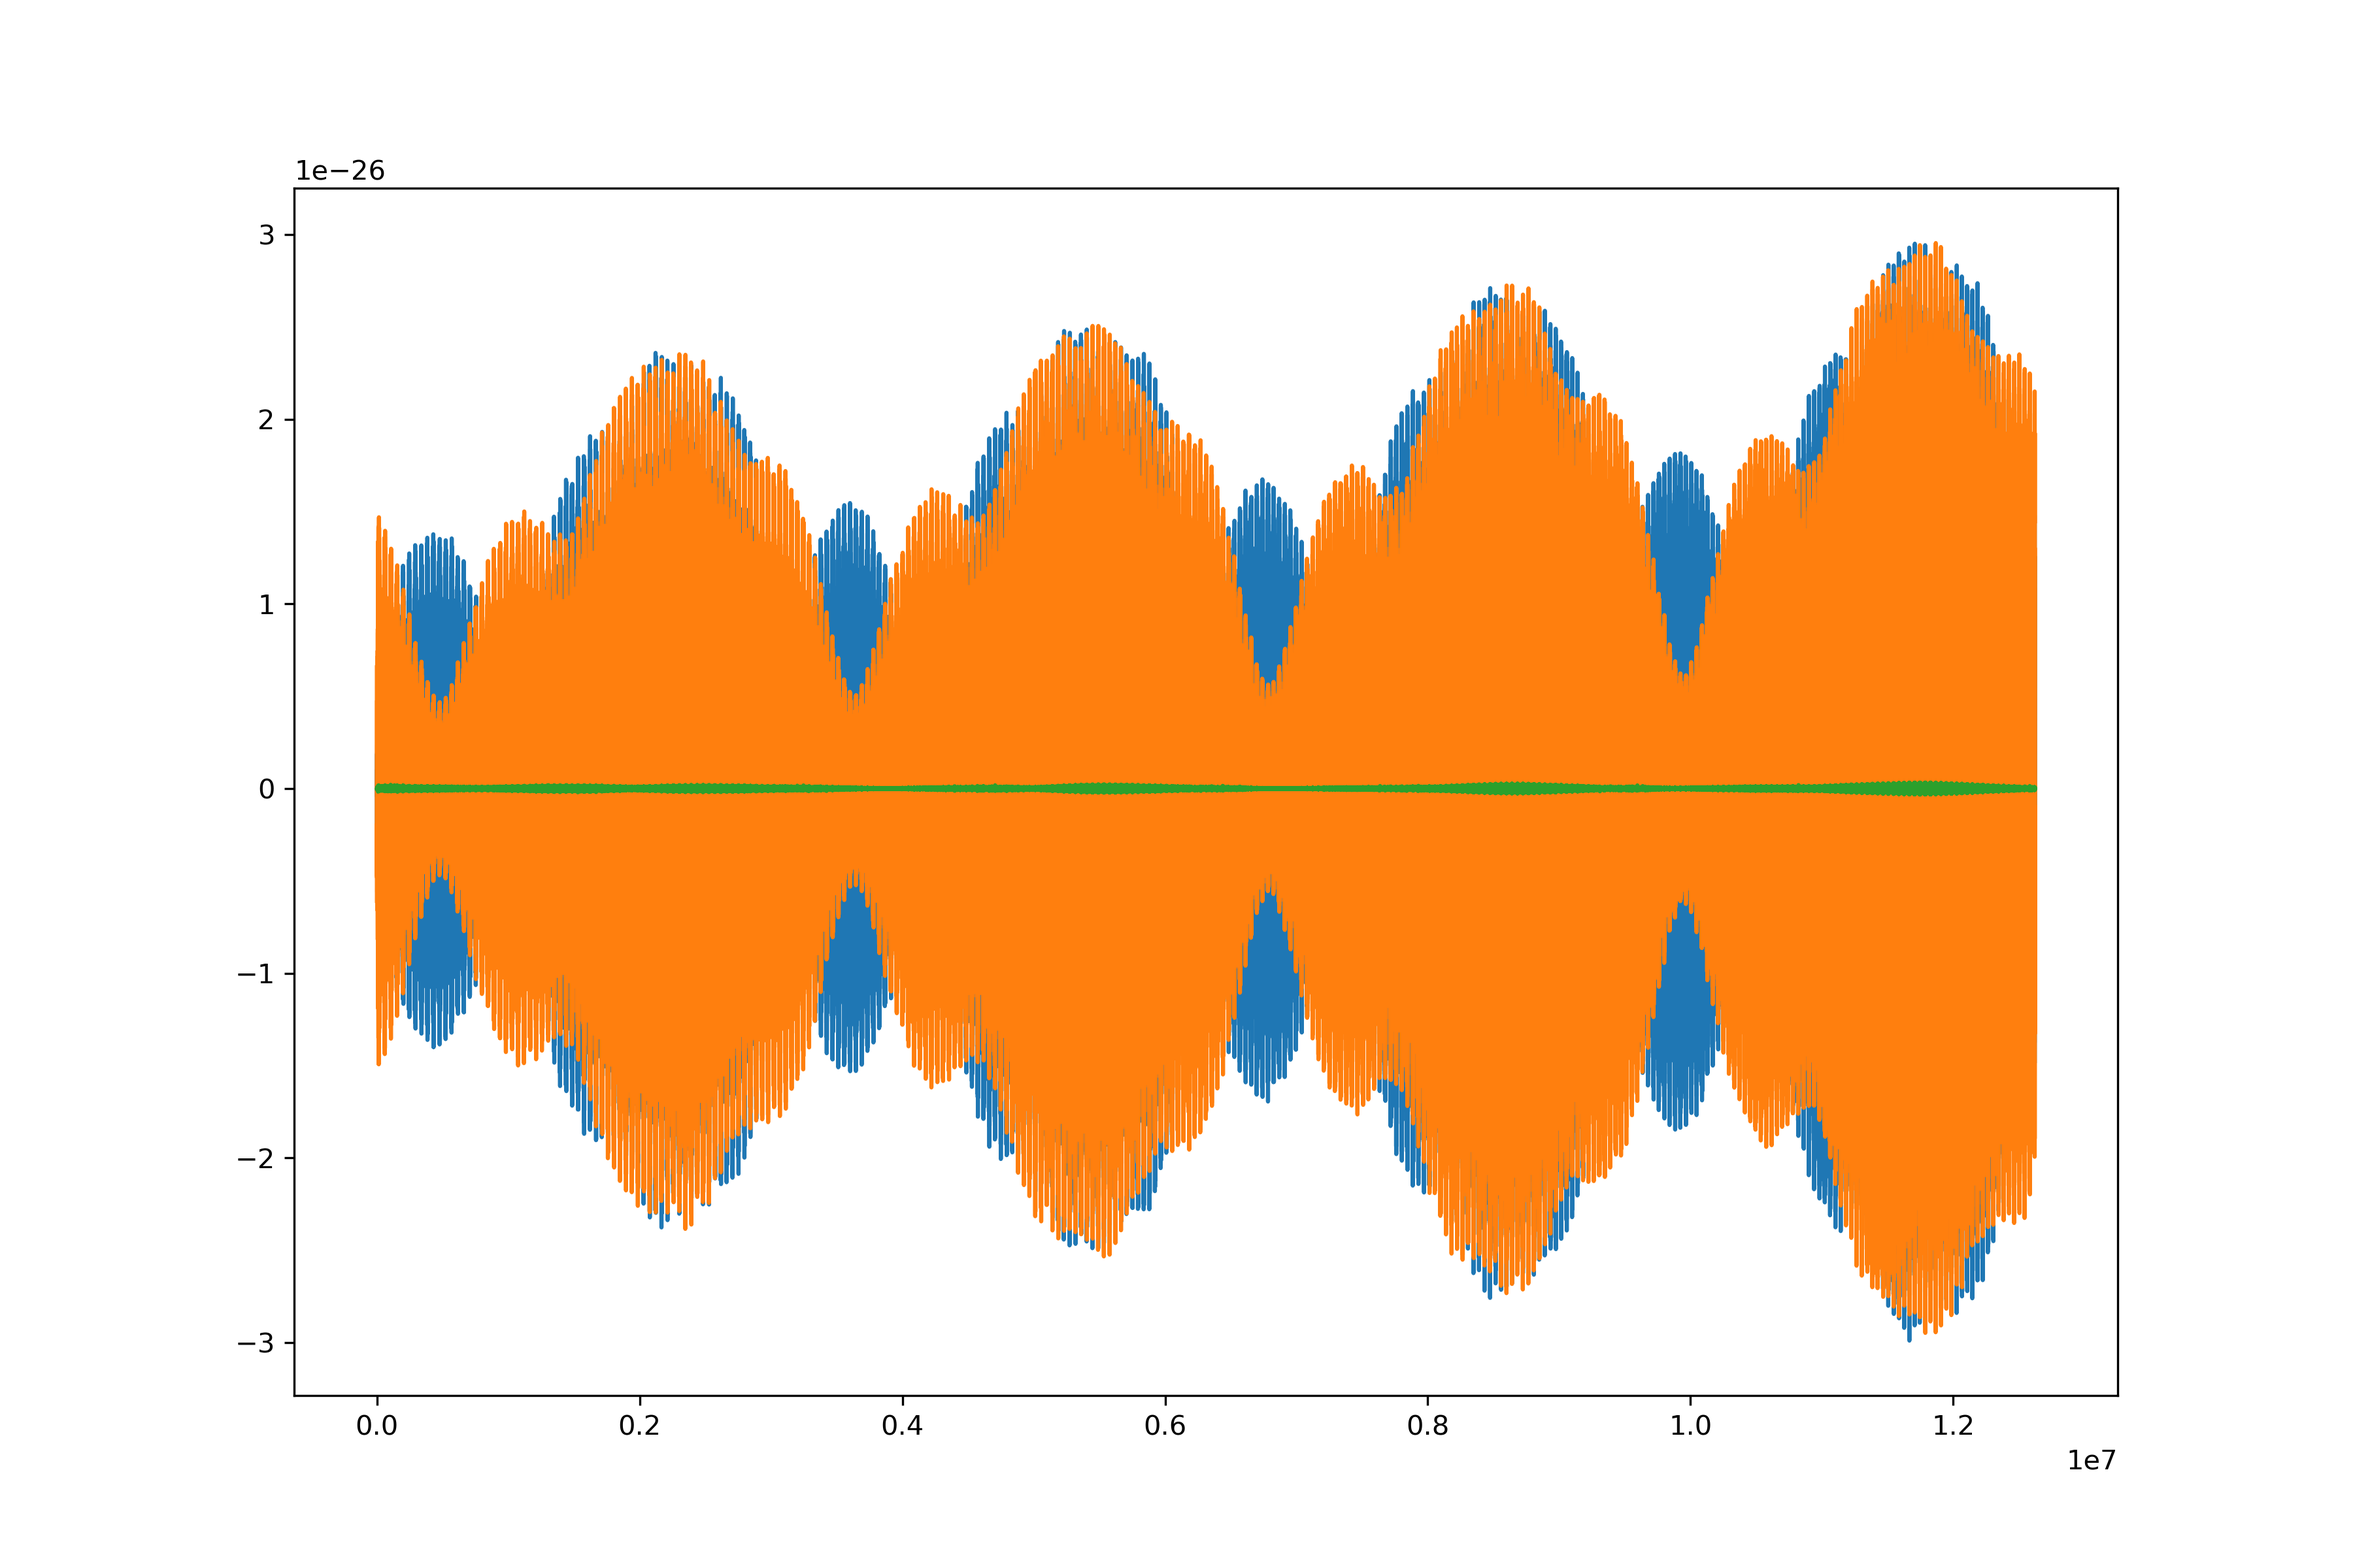
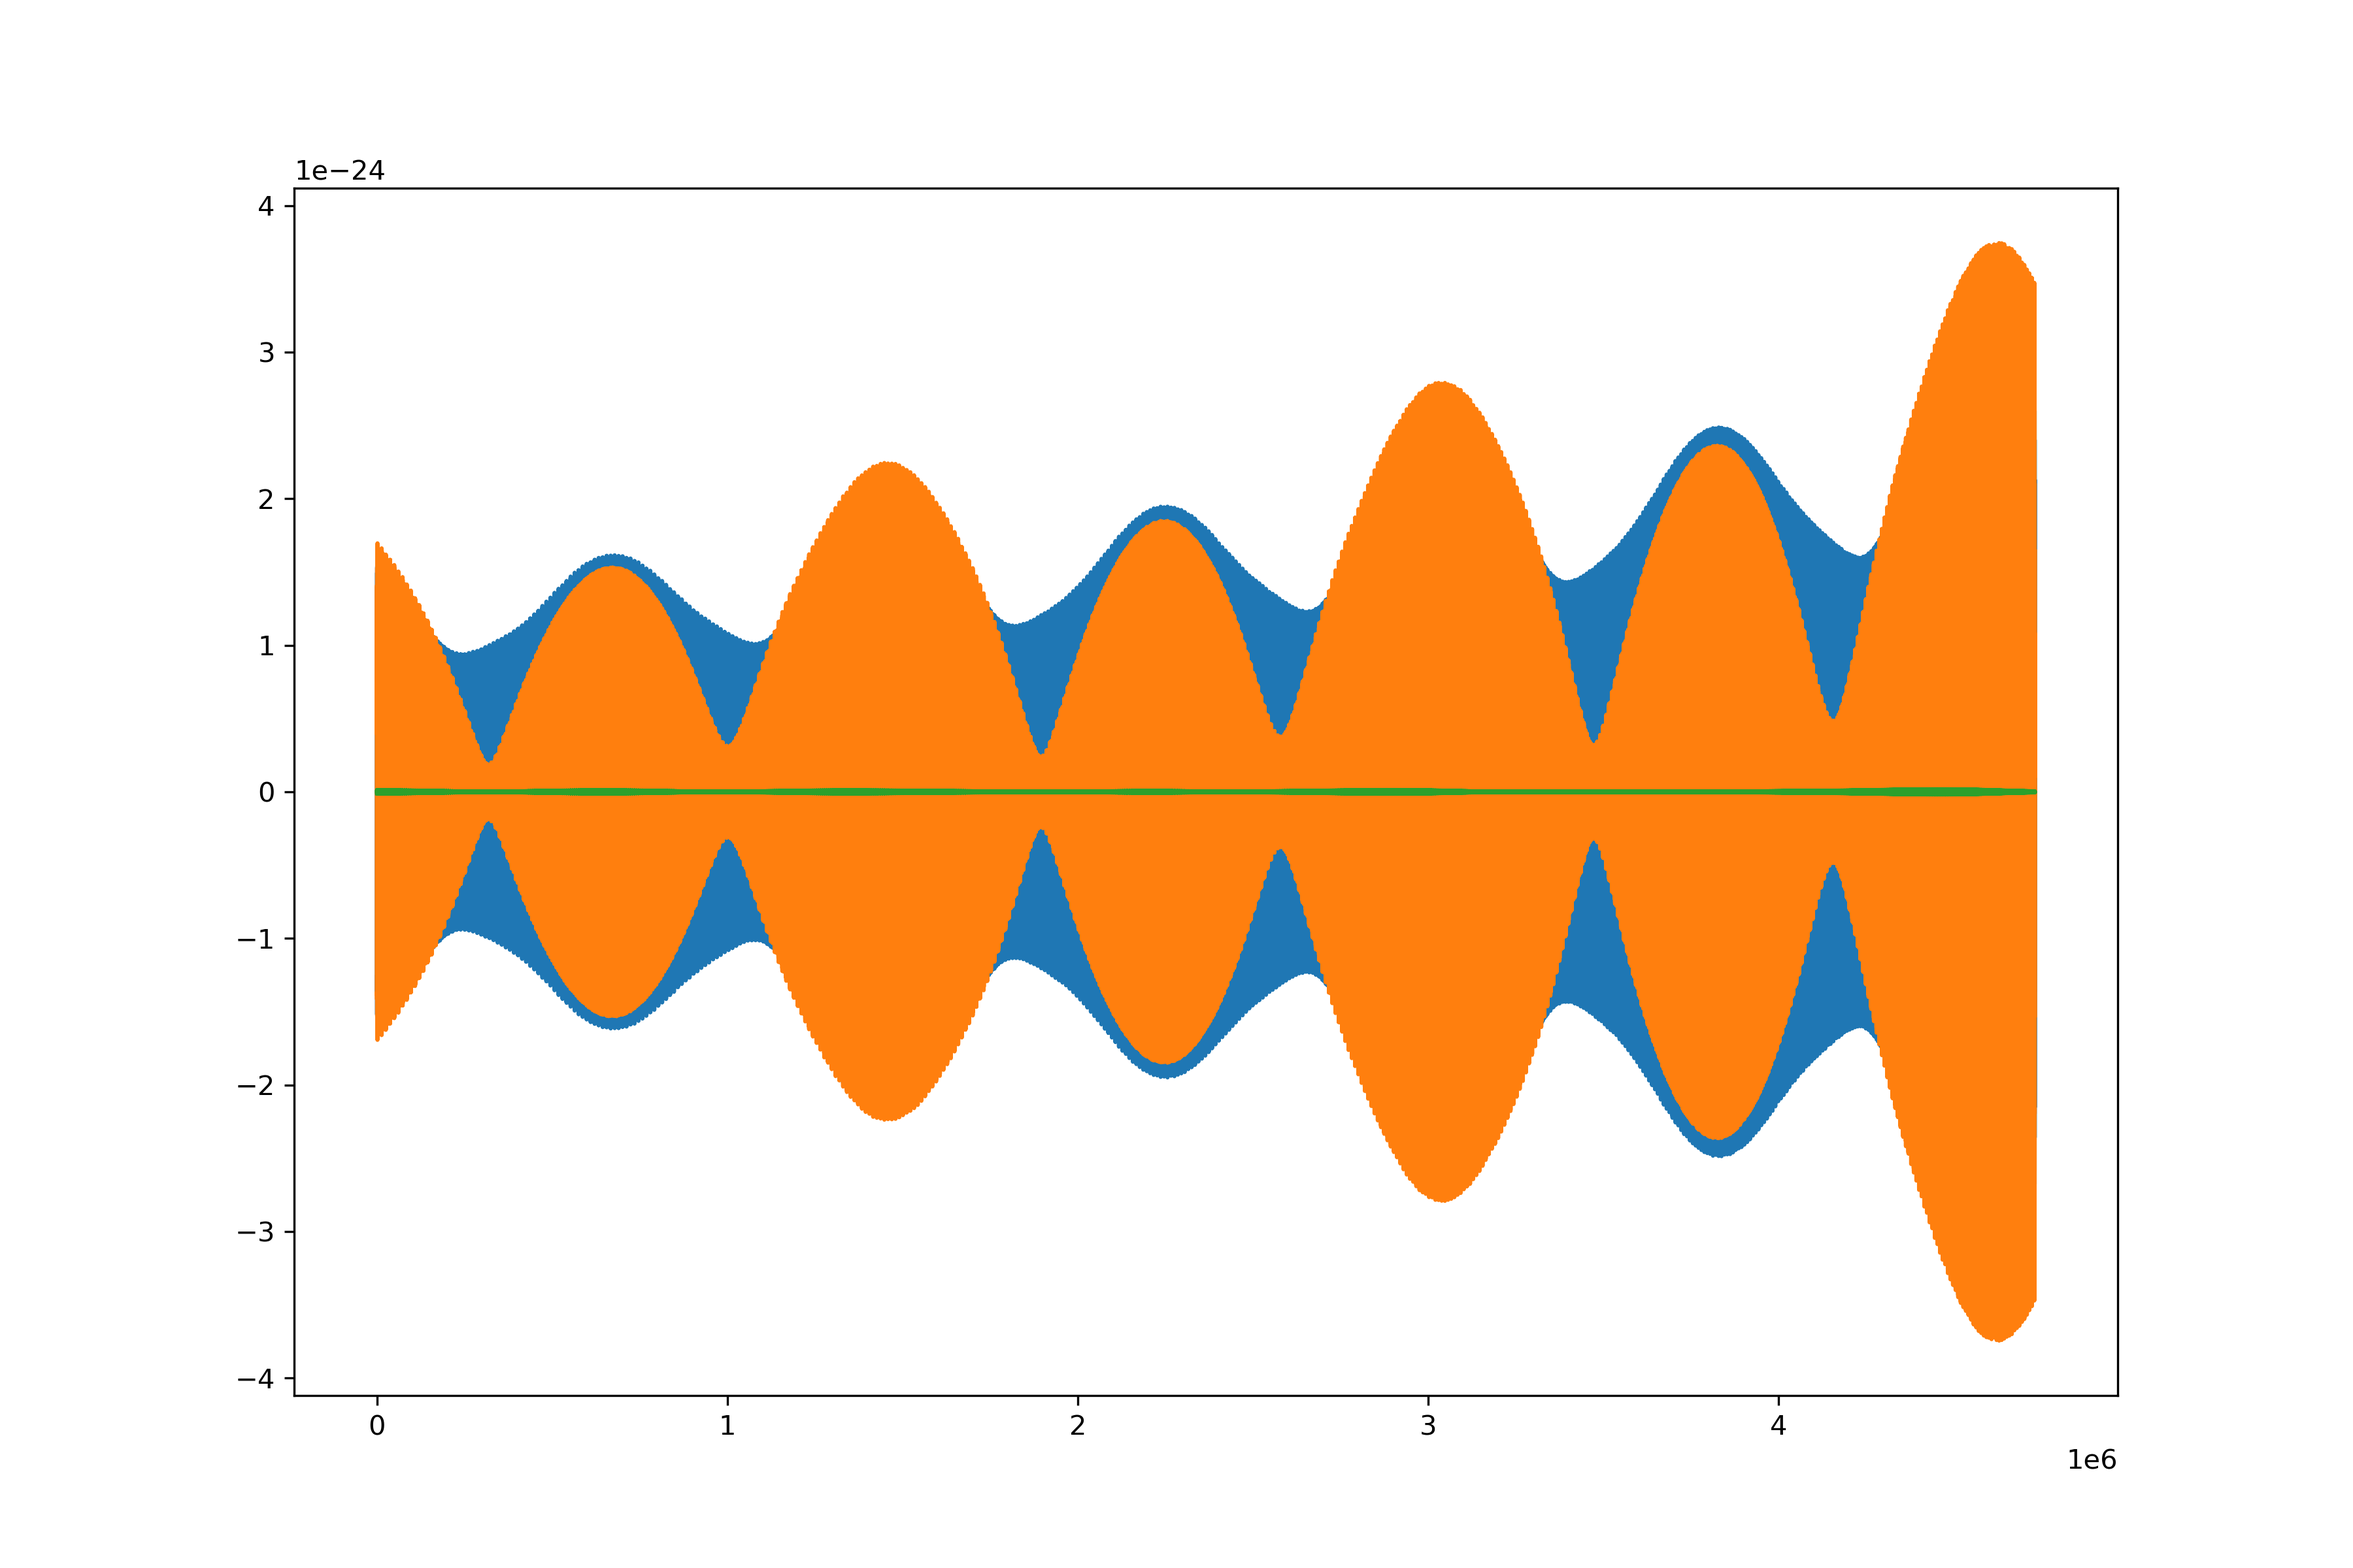
some bugs fixed

Changed region(s): [[0.1556, 0.1562, 0.8711, 0.875], [0.84, 0.5, 0.8711, 0.5312]]

diff --git a/master_thesis_code/parameter_estimation/parameter_estimation.py b/master_thesis_code/parameter_estimation/parameter_estimation.py
@@ -39,8 +39,8 @@ _LOGGER = logging.getLogger()
 class ParameterEstimation:
     parameter_space: ParameterSpace
     lisa_response_generator: ResponseWrapper
-    dt = 10  # time sampling in sec
-    T = 4  # observation time in years
+    dt = 20  # time sampling in sec
+    T = 3  # observation time in years
 
     def __init__(
         self,
@@ -140,14 +140,18 @@ class ParameterEstimation:
     def _crop_to_same_length(
         signal_collection: List[List[cp.array]],
     ) -> List[List[cp.array]]:
+        print(signal_collection)
         max_possible_length = min(
+            min(
             [
                 min(
                     [len(tdi_channel) for tdi_channel in tdi_channels]
                     for tdi_channels in signal_collection
                 )
             ]
+            )
         )
+        print(max_possible_length)
         return cp.array(
             [
                 [tdi_channel[:max_possible_length] for tdi_channel in tdi_channels]

diff --git a/master_thesis_code/waveform_generator.py b/master_thesis_code/waveform_generator.py
@@ -11,7 +11,7 @@ _LOGGER = logging.getLogger()
 USE_GPU = True
 INDEX_LAMBDA = 8  # index in list of parameters from ParameterSpace for phiS
 INDEX_BETA = 7  # index in list of parameters from ParameterSpace for qS
-T0 = 10_000.0  #
+T0 = 20_000.0  #
 
 # Configuration of PN5 AAK waveform generator
 pn5_aak_configuration = {
@@ -33,7 +33,7 @@ order = 35
 orbit_file_esa = "./lisa_files/esa-trailing-orbits.h5"
 orbit_kwargs_esa = dict(orbit_file=orbit_file_esa)
 # 1st or 2nd or custom (see docs for custom)
-tdi_gen = "2nd generation"
+tdi_gen = "1st generation"
 tdi_kwargs_esa = dict(
     orbit_kwargs=orbit_kwargs_esa,
     order=order,

diff --git a/master_thesis_code/LISA_configuration.py b/master_thesis_code/LISA_configuration.py
@@ -38,7 +38,7 @@ class LisaTdiConfiguration:
         if channel.upper() in ["A", "E"]:
             return self.power_spectral_density_a_channel(frequencies)
         elif channel.upper() == "T":
-            return self.power_spectral_density_t_channel(frequencies)
+            return cp.full(len(frequencies), 100.) # TODO: check T-channel expression. 
 
     def power_spectral_density_a_channel(self, frequencies: cp.array) -> cp.array:
         """from https://arxiv.org/pdf/2303.15929.pdf"""
